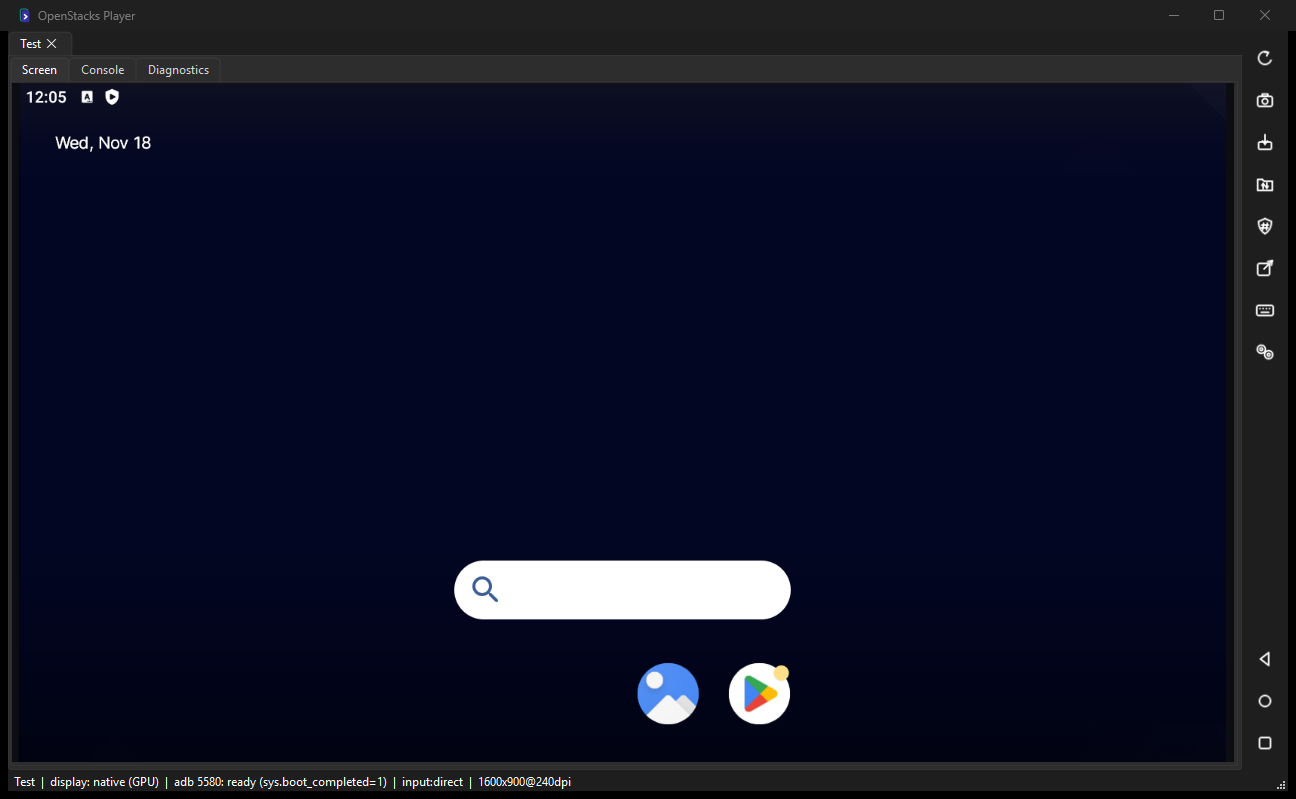
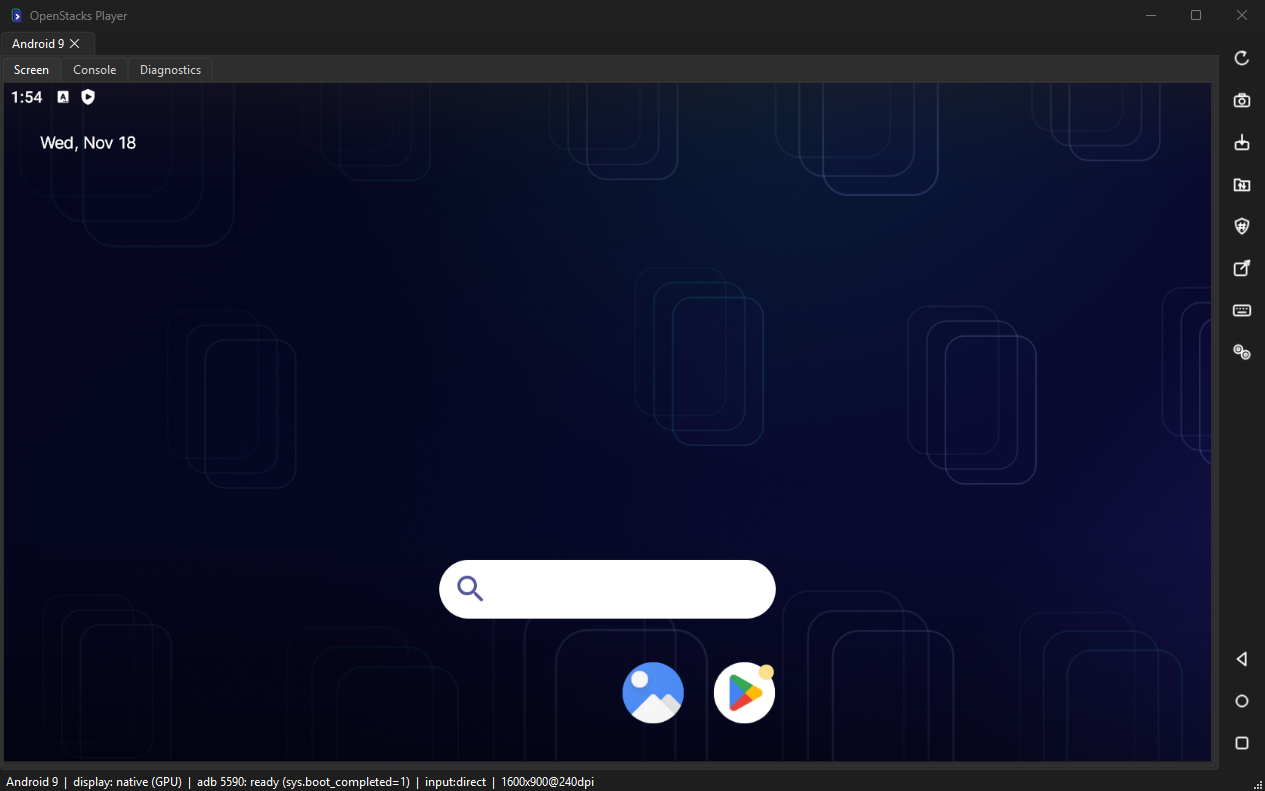
Player fits its window to the guest's aspect (no letterbox strips); new README screenshot; --launch takes unquoted names with spaces

diff --git a/frontend/openstacks/player.py b/frontend/openstacks/player.py
@@ -373,11 +373,18 @@ class PlayerPane(QWidget):
         win._returning = True
         win.close()
         win.deleteLater()
+        w = self.window()
+        if hasattr(w, "fit_to_screen"):
+            QTimer.singleShot(0, lambda: w.fit_to_screen(self))
 
     def _on_rotation(self, rot: int) -> None:
-        # a popped-out screen follows portrait <-> landscape like BlueStacks
+        # the screen follows portrait <-> landscape like BlueStacks (popped out or docked)
         if self.screen_window is not None:
             self.screen_window.fit(*self._screen_size())
+        else:
+            win = self.window()
+            if hasattr(win, "fit_to_screen"):
+                win.fit_to_screen(self)
 
     def rotate(self) -> None:
         """Toggle Android between its natural orientation and 90 degrees.
@@ -723,6 +730,7 @@ class PlayerWindow(QMainWindow):
         # the VNC/ADB input toggle only applies to the VNC display
         if pane is not None:
             self._rail_buttons["input_mode"].setVisible(not pane.native)
+            QTimer.singleShot(0, lambda: self.fit_to_screen(pane))
 
     def _close_tab(self, idx: int) -> None:
         w = self.tabs.widget(idx)
@@ -751,6 +759,29 @@ class PlayerWindow(QMainWindow):
                 th.start()
                 self._bg_threads.append(th)
         self.tabs.removeTab(idx)
+
+    def fit_to_screen(self, pane: Optional["PlayerPane"] = None) -> None:
+        """Resize the window so the Screen tab has exactly the guest's aspect ratio (no
+        letterbox strips), keeping the current screen height where it fits on the desktop."""
+        pane = pane or self.current_pane()
+        if pane is None or pane.screen_window is not None or self.isMaximized() \
+                or self.isFullScreen():
+            return
+        gw, gh = pane._screen_size()
+        disp = pane.display
+        if disp.width() < 10 or disp.height() < 10:
+            return
+        chrome_w = self.width() - disp.width()
+        chrome_h = self.height() - disp.height()
+        avail = self.screen().availableGeometry() if self.screen() else None
+        max_w = (avail.width() * 0.9 if avail else 1600) - chrome_w
+        max_h = (avail.height() * 0.9 if avail else 900) - chrome_h
+        # keep the current screen height (landscape) or width (portrait), within the desktop
+        th = min(max(disp.height(), 360), max_h)
+        tw = th * gw / gh
+        if tw > max_w:
+            tw, th = max_w, max_w * gh / gw
+        self.resize(int(round(tw)) + chrome_w, int(round(th)) + chrome_h)
 
     def restart_instance(self, inst: Instance, after_boot=None) -> None:
         """Stop QEMU, start it again with fresh props, reopen the tab; after_boot(pane)
@@ -797,6 +828,7 @@ class PlayerWindow(QMainWindow):
         self.tabs.setCurrentIndex(i)
         pane.start()
         pane.refresh_adb()
+        QTimer.singleShot(0, lambda: self.fit_to_screen(pane))   # after the layout settles
         return pane
 
     def close_quietly(self) -> None:

diff --git a/frontend/openstacks/native.py b/frontend/openstacks/native.py
@@ -170,7 +170,8 @@ class NativeDisplay(QWidget):
 
     def paintEvent(self, ev) -> None:
         p = QPainter(self)
-        p.fillRect(self.rect(), QColor("#0b0d12"))
+        # letterbox strips (window not at the guest's aspect) blend with the window
+        p.fillRect(self.rect(), self.palette().window())
         if self._container is None:
             p.setPen(QColor("#7d8590"))
             p.drawText(self.rect(), Qt.AlignCenter, self.state())

diff --git a/frontend/run_player.py b/frontend/run_player.py
@@ -99,7 +99,8 @@ def main() -> int:
         app = run_app()
         win = ManagerWindow()
         win.show()
-        QTimer.singleShot(600, lambda: win.launch_by_name(sys.argv[2]))
+        name = " ".join(sys.argv[2:])          # unquoted names with spaces still work
+        QTimer.singleShot(600, lambda: win.launch_by_name(name))
         return app.exec()
     from openstacks.player import main as player_main
     player_main()

diff --git a/BACKLOG.md b/BACKLOG.md
@@ -26,8 +26,9 @@ brackets). Move an item to NOTES when it lands.
   scroll/zoom and has a multi-touch mode.
 - **Keymap editor** (game controls overlay, BlueStacks' signature feature) - the button is a
   stub.
-- **Player window sizing** - follow the guest resolution and orientation like BlueStacks
-  (fit the window to 16:9 or 9:16, remember the size per instance).
+- **Player window sizing** - the window fits the guest's aspect when an instance opens,
+  rotates or its tab is selected. Open: keep the aspect while resizing by hand, and remember
+  the size per instance.
 - **Manager thumbnails are black with the native display** - they come from a readback that
   the native GPU path skips (`GR_READBACK=0`). Use `adb screencap` or a renderer snapshot.
 - **VNC console is not rotated** - the readback frame is the unrotated panel (display=vnc only).
